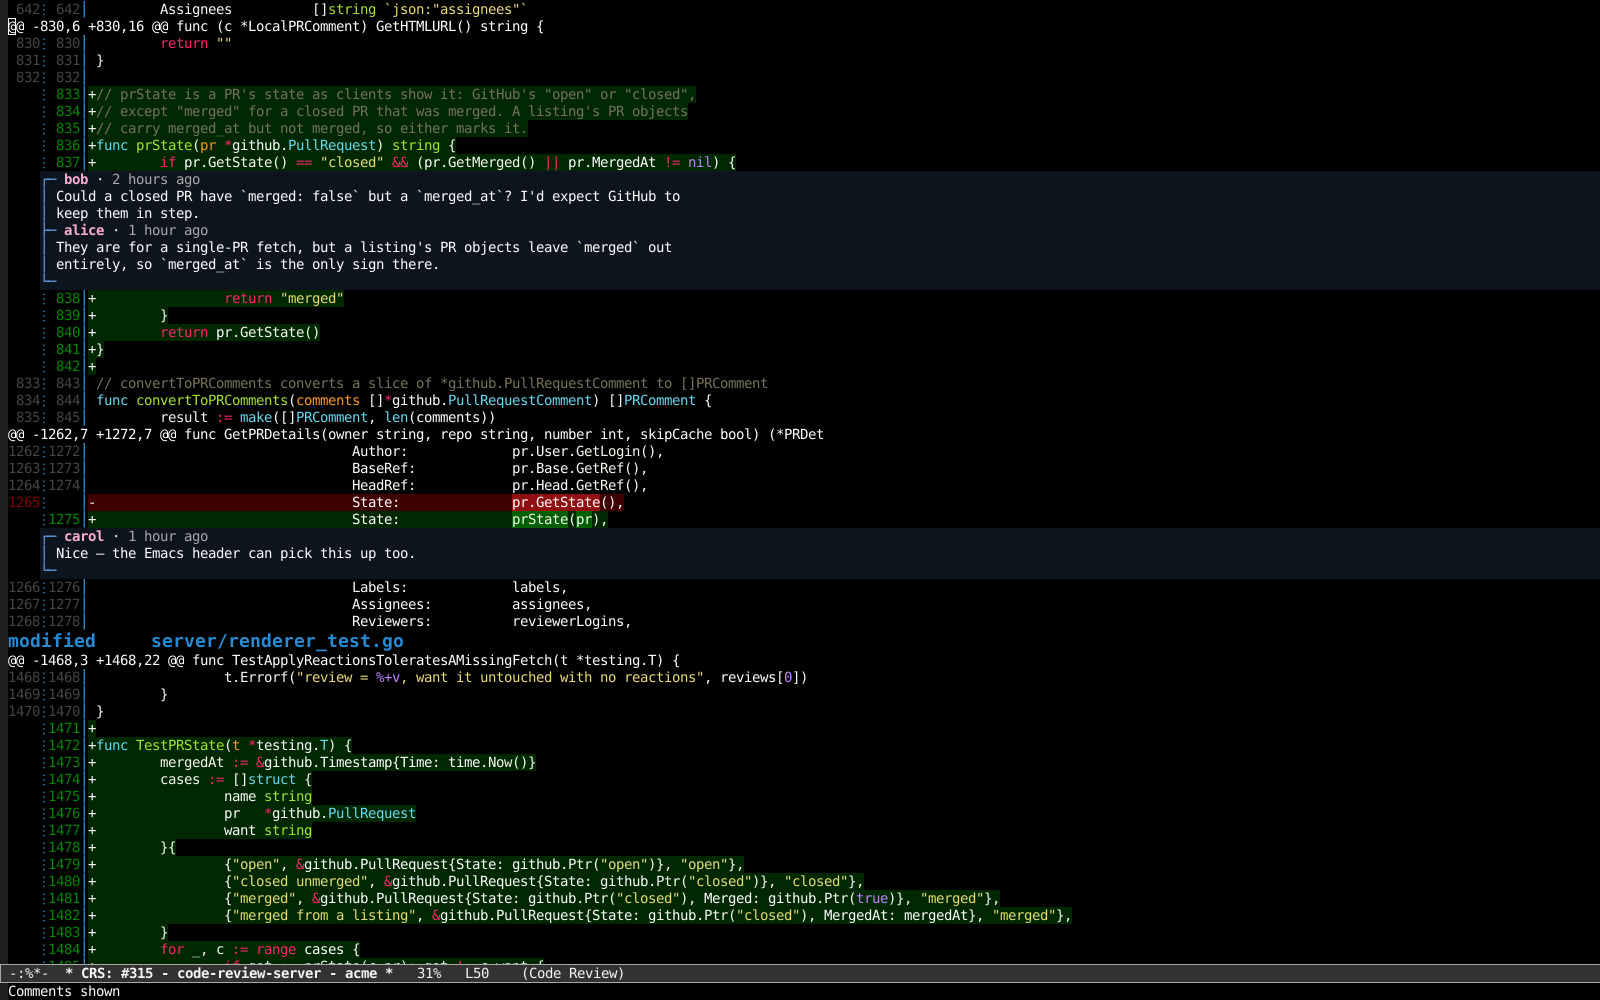
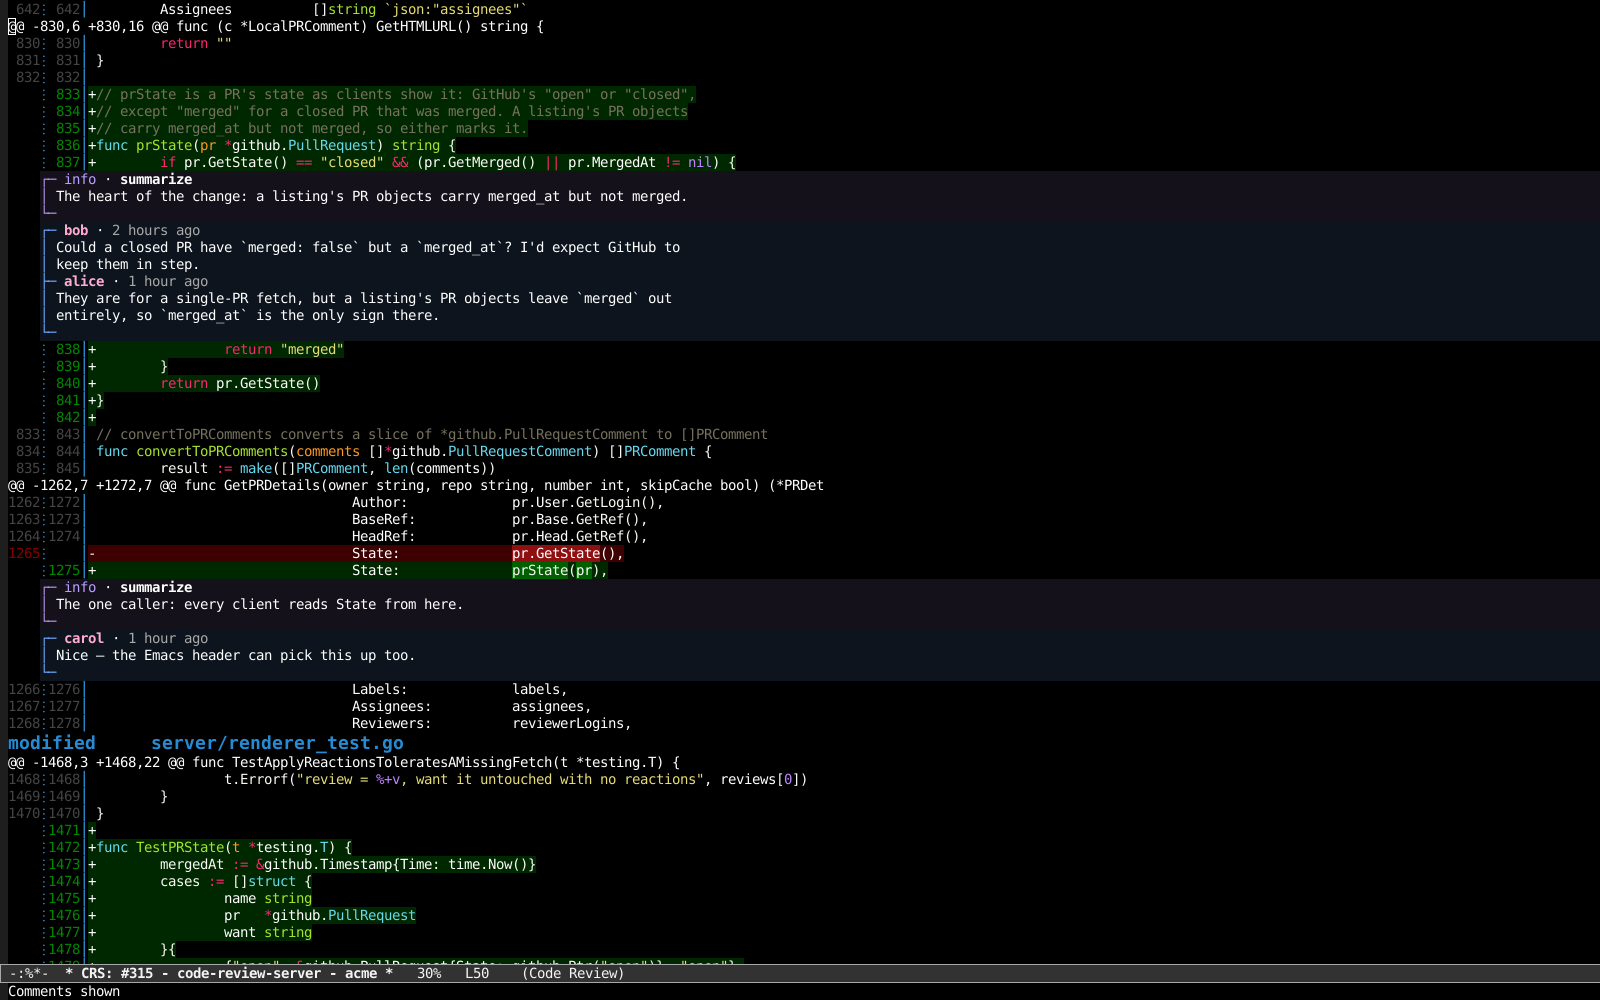
docs: screenshots of the Emacs client's pieces on the clients page (#351)
* docs: new screenshots of both clients, plus plugins, AI features and chat

The README's screenshots were well out of date. They are replaced with the web
client's pull request list and a review (comment tray open), and an Emacs review
with its discussion buffer; the docs gain the plugins view, the
comments-addressed report (modal, pinned, Emacs), the change diagram, the
review chat in both clients and Emacs's inline threads. The superseded images
are removed.

They are taken against the e2e fakes, so they can be retaken:
CRS_E2E_FIXTURES=demo serves e2e/fixtures/demo.ts, whose main PR's diff is a
real change from this repository, and fixtures may now carry labels, a chat
reply and a change diagram. e2e/screenshots.ts takes the web client's,
e2e/screenshots_emacs.sh drives a graphical Emacs under Xvfb for the rest. The
fake's comments-addressed body now lists items as the server renders them.

Claude-Session: https://claude.ai/code/session_019iiPUFEsXaX6VjHMKbCSmB

* docs: wash the Emacs screenshots' diffs through git-delta

The Emacs shots coloured +/- lines with a font-lock stand-in instead of the
delta wash the client does (crs-render calls `delta-wash`, which needs
magit-delta or code-review). screenshots.el now defines magit-delta's washer
itself: the buffer goes through the real `delta` (line numbers, kept +/-
markers, raw file and hunk headers, which crs--simplify-diff-headers and the
position code expect) and its colours become overlays via ansi-color. The
[…]

Changed region(s): [[0.0, 0.155, 1.0, 0.961], [0.4688, 0.775, 0.5, 0.806], [0.0312, 0.93, 0.0625, 0.961]]

diff --git a/bun_client/e2e/fixtures/demo.ts b/bun_client/e2e/fixtures/demo.ts
@@ -3,6 +3,7 @@
 // the e2e fixtures, but a review list that looks like a working day and a PR
 // whose diff is a real change from this repository's history.
 
+import { execFileSync } from 'node:child_process';
 import { readFileSync } from 'node:fs';
 import { resolve } from 'node:path';
 import { comment, type PRFixture, type ReviewItem } from './prs';
@@ -81,6 +82,72 @@ function filler(
     };
 }
 
+// The commit MERGED_STATE_DIFF comes from, whose files hunk expansion reads.
+const MERGED_STATE_COMMIT = '0d8f9b3';
+const REPO_ROOT = resolve(import.meta.dirname, '../../..');
+
+/** PATH at MERGED_STATE_COMMIT, or '' where the history doesn't reach it. */
+function fileAtCommit(path: string): string {
+    try {
+        return execFileSync('git', ['show', `${MERGED_STATE_COMMIT}:${path}`], {
+            cwd: REPO_ROOT,
+            encoding: 'utf8',
+            stdio: ['ignore', 'pipe', 'ignore'],
+        });
+    } catch {
+        return '';
+    }
+}
+
+/**
+ * The review list as the server's OrgRenderer writes it (GetAllReviews'
+ * `content`, which the Emacs client shows): a heading per section with its
+ * done count, then each PR's headline, tags and detail lines.
+ */
+export function orgContent(prs: PRFixture[]): string {
+    const sections = [...new Set(prs.map(p => p.item.section))];
+    const out: string[] = [];
+    for (const section of sections) {
+        const items = prs.filter(p => p.item.section === section);
+        const done = items.filter(p => p.item.status === 'DONE').length;
+        out.push(
+            `* ${done === items.length ? 'DONE' : 'TODO'} ${section} [${done}/${items.length}]`
+        );
+        for (const { item, headRef, reviews } of items) {
+            const tags = [
+                ...item.tags.split(',').filter(Boolean),
+                ...(item.merge_conflicts ? ['conflict'] : []),
+                ...(item.review_ease ? [item.review_ease] : []),
+            ];
+            const by = (state: string) =>
+                reviews
+                    .filter(r => r.state === state)
+                    .map(r => r.user)
+                    .join(', ');
+            out.push(
+                `** ${item.status} ${item.title}\t\t:${tags.join(':')}:`,
+                String(item.number),
+                `Repo: ${item.owner}/${item.repo}`,
+                item.url,
+                `Title: ${item.title}`,
+                `Author: ${item.author}`,
+                `Branch: ${item.author}:${headRef}`,
+                'Requested Reviewers: you',
+                'Requested Teams:'
+            );
+            if (item.status === 'TODO') {
+                out.push(
+                    `Approved By: ${by('APPROVED')}`,
+                    `Changes Requested By: ${by('CHANGES_REQUESTED')}`,
+                    `Commented By: ${by('COMMENTED')}`
+                );
+            }
+        }
+        out.push('');
+    }
+    return out.join('\n') + '\n';
+}
+
 export function buildFixtures(): PRFixture[] {
     const diff = MERGED_STATE_DIFF;
     const renderer = 'server/renderer.go';
@@ -106,6 +173,10 @@ export function buildFixtures(): PRFixture[] {
             baseRef: 'main',
             headRef: 'alice/merged-state',
             labels: ['bug', 'server'],
+            files: {
+                'server/renderer.go': fileAtCommit('server/renderer.go'),
+                'server/renderer_test.go': fileAtCommit('server/renderer_test.go'),
+            },
             chatReply: [
                 '`prState` only rewrites a **closed** PR, so open PRs and drafts keep',
                 "GitHub's state untouched. Two things worth checking:",
@@ -202,7 +273,21 @@ export function buildFixtures(): PRFixture[] {
                             'Adds `prState`, which reports a closed PR that was merged as **merged**, and uses it for `PRMetadata.State`. Covered by a table test over single-PR and listing objects.',
                         ].join('\n'),
                     },
-                    annotations: [],
+                    annotations: [
+                        {
+                            filename: 'server/renderer.go',
+                            line: 837,
+                            severity: 'info',
+                            content:
+                                "The heart of the change: a listing's PR objects carry merged_at but not merged.",
+                        },
+                        {
+                            filename: 'server/renderer.go',
+                            line: 1275,
+                            severity: 'info',
+                            content: 'The one caller: every client reads State from here.',
+                        },
+                    ],
                 },
                 security_check: {
                     result: 'No security issues found.',

diff --git a/bun_client/e2e/harness/fake_crs.ts b/bun_client/e2e/harness/fake_crs.ts
@@ -18,10 +18,11 @@ import {
     type PRFixture,
     type ReviewJSON,
 } from '../fixtures/prs';
-import { buildFixtures as buildDemoFixtures } from '../fixtures/demo';
+import { buildFixtures as buildDemoFixtures, orgContent } from '../fixtures/demo';
 
 // CRS_E2E_FIXTURES=demo serves the README screenshots' data (e2e/screenshots.ts).
-const fixtures = process.env.CRS_E2E_FIXTURES === 'demo' ? buildDemoFixtures : buildFixtures;
+const demo = process.env.CRS_E2E_FIXTURES === 'demo';
+const fixtures = demo ? buildDemoFixtures : buildFixtures;
 
 interface Request {
     method: string;
@@ -163,7 +164,7 @@ function freshState(): State {
         aiEnabled: true,
         reviewEaseEnabled: true,
         // The README screenshots show the diagram; the specs turn it on.
-        diagramEnabled: process.env.CRS_E2E_FIXTURES === 'demo',
+        diagramEnabled: demo,
         diagramSource: DIAGRAM_SOURCE,
         aiRuns: new Set(),
         aiDone: new Set(),
@@ -305,9 +306,20 @@ function payload(pr: PRFixture) {
         reviews: pr.reviews,
         commits: [],
         feedback: state.feedback.get(key(pr.item.owner, pr.item.repo, pr.item.number)) ?? '',
-        annotations: [],
+        annotations: pluginAnnotations(pr),
         images: [],
     };
+}
+
+// Every plugin result's annotations, by plugin in name order, as the server's
+// collectPluginAnnotations gathers them.
+function pluginAnnotations(pr: PRFixture) {
+    return Object.keys(pr.plugins)
+        .sort()
+        .flatMap(plugin => {
+            const result = pr.plugins[plugin] as { annotations?: object[] };
+            return (result.annotations ?? []).map(a => ({ ...a, plugin, source: 'plugin' }));
+        });
 }
 
 // --- Review chat --------------------------------------------------------------
@@ -644,6 +656,7 @@ function startAIRun(pr: PRFixture, feature: string) {
 
 // Lines of a file in the fixture checkout, for GetHunkContext.
 function fileLines(pr: PRFixture, filename: string): string[] {
+    if (pr.files) return (pr.files[filename] ?? '').replace(/\n$/, '').split('\n');
     if (!pr.repoPath) return [];
     try {
         return readFileSync(join(pr.repoPath, filename), 'utf-8').replace(/\n$/, '').split('\n');
@@ -738,7 +751,8 @@ const REVIEW_STATE: Record<string, string> = {
 const handlers: Record<string, (args: any) => unknown> = {
     'RPCHandler.GetAllReviews': () => ({
         okay: true,
-        content: '',
+        // The org-mode list the Emacs client shows; the demo's only.
+        content: demo ? orgContent(state.prs) : '',
         // Counted like the server does, from the PR's GitHub comments: local
         // drafts don't count until they are submitted.
         items: state.prs.map(p => ({

diff --git a/bun_client/e2e/fixtures/prs.ts b/bun_client/e2e/fixtures/prs.ts
@@ -74,6 +74,9 @@ export interface PRFixture {
     // it serves for it (demo.ts); a stock answer and DIAGRAM_SOURCE otherwise.
     chatReply?: string;
     diagram?: string;
+    // The PR's files at its head, by path, for hunk expansion (GetHunkContext);
+    // read from repoPath when left out.
+    files?: Record<string, string>;
 }
 
 const created = (daysAgo: number) =>

diff --git a/docs/clients.md b/docs/clients.md
@@ -162,6 +162,8 @@ In the reviews buffer, each PR's headline carries its tags: the repository,
 with its base (drawn in `crs-list-conflict-face`), and the
 [review-ease](ai_features.md#review-ease) rating when that feature is on.
 
+![The Emacs client's reviews buffer](img/emacs-list.png)
+
 Starting a review will then load a new code-review buffer which you can read the review, make comments, and submit your review.
 
 A review buffer opens on the code. The Conversation section is folded (`TAB` on
@@ -171,6 +173,25 @@ the echo area previews the thread; `H` (`crs-toggle-comments`) draws the threads
 full, and hides them again. Whatever you fold or unfold stays so as the buffer is
 redrawn: after a sync, a new comment, or `H`. `crs-review-show-comments` and
 `crs-review-collapsed-sections` change how a review opens.
+
+![The top of an Emacs review buffer](img/emacs-review-header.png)
+
+With the threads drawn in full (`H`):
+
+![Review threads drawn in the Emacs review buffer](img/emacs-review-comments.png)
+
+Plugins show up in a review buffer two ways. `p` (`crs-get-plugin-output`) opens
+every plugin's output for the PR in a buffer beside the review (`P` picks one
+plugin, `R` re-runs one and `D` runs one that only runs on demand):
+
+![Plugin output beside an Emacs review](img/emacs-plugins.png)
+
+And the [annotations](plugins.md#plugin-response-contract) plugins attach to lines
+are marked `<A: plugin>` at the end of those lines, like the threads' `<C: …>`
+indicators. `A` (`crs-toggle-annotations`) draws them in full under their lines,
+and `a` on one (`crs-add-annotation-as-comment`) adds it as a pending comment on its line:
+
+![Plugin annotations drawn in an Emacs review buffer](img/emacs-annotations.png)
 
 #### Reading the discussion beside the code
 
@@ -216,6 +237,8 @@ review comments are still outstanding — running it first when it never ran or 
 report is stale. The report buffer updates itself as runs start and land; `r`
 refreshes it, `R` forces a re-run and `q` quits.
 
+![An AI report beside an Emacs review](img/emacs-ai.png)
+
 `F` in a review buffer (`crs-show-filtered-diff`) narrows the diff to a
 [range of commits](protocol.md#filtered-diffs): pick *Since my last review*,
 *Since my last interaction* or, to go back, *Full diff*
@@ -236,6 +259,8 @@ point: 20 lines, or as many as a numeric prefix asks for. They stop at the next
 hunk, and once they reach it the two are shown as one, under a header spanning
 both. The lines they add aren't part of the PR's diff, so they can't take a
 comment, and the comments below them stay on their lines.
+
+![A hunk expanded with `o`, down to the next hunk](img/emacs-hunk-expansion.png)
 
 `L` in a review buffer (`crs-copy-github-line-link`) copies the GitHub link to
 the diff line at point to the kill ring — the link GitHub's Files changed view
@@ -264,6 +289,8 @@ in the Mermaid live editor. Called with `M-x` anywhere else, it asks for the PR 
 a URL or `owner/repo#number`. The same `r`, `R` and `q` apply, and the header line
 says whether the diagram still describes the PR.
 
+![The change diagram's Mermaid source beside an Emacs review](img/emacs-change-diagram.png)
+
 #### Review chat
 
 `t` in a review buffer (`crs-chat`) opens the [review chat](protocol.md#review-chat):
@@ -273,6 +300,8 @@ split off the bottom of the review's, which keeps the top three quarters
 (`crs-chat-window-height`), and shows the PR's most recent session, or a new
 one. The agent gets the PR's description and diff with your first message, and can
 read the repository but not change it.
+
+![The review chat below an Emacs review](img/emacs-chat.png)
 
 The chat buffer is in `crs-chat-mode`, built on `markdown-mode`: the conversation
 is Markdown, read-only, one level-1 heading per turn (`# You`, then the agent's
@@ -312,6 +341,8 @@ one the chat shows and `●` by one whose agent is answering. `RET` opens the se
 on the line in the chat, `n` starts a new one, `f` forks the one on the line, `R`
 renames it, `d` deletes it, `g` lists them again and `q` goes back to the chat. The
 list follows `Server.ChatChanged` like the chat does.
+
+![A PR's chat sessions listed](img/emacs-chat-sessions.png)
 
 The answer streams in as the agent writes it: the server announces each step
 (`Server.ChatChanged`) and the buffer reads the chat again, redrawing only what
